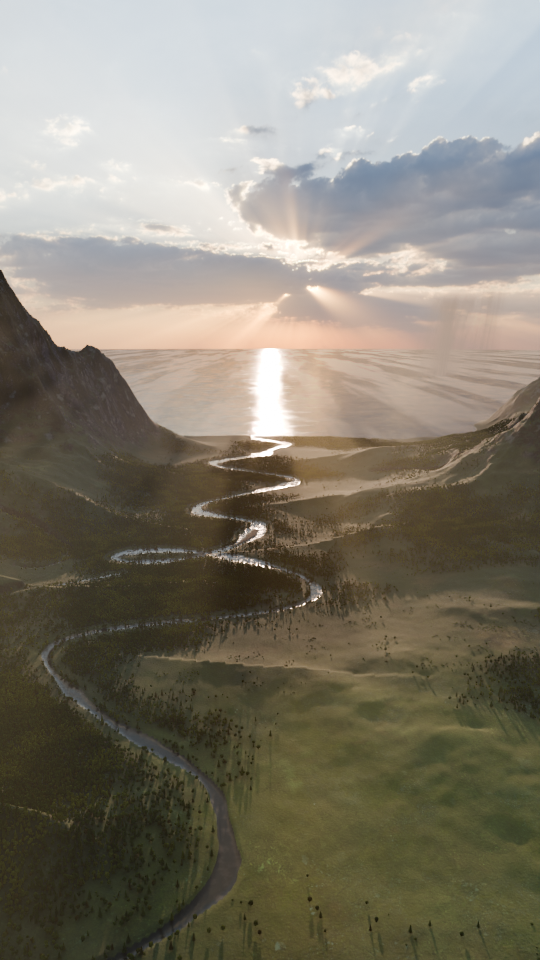
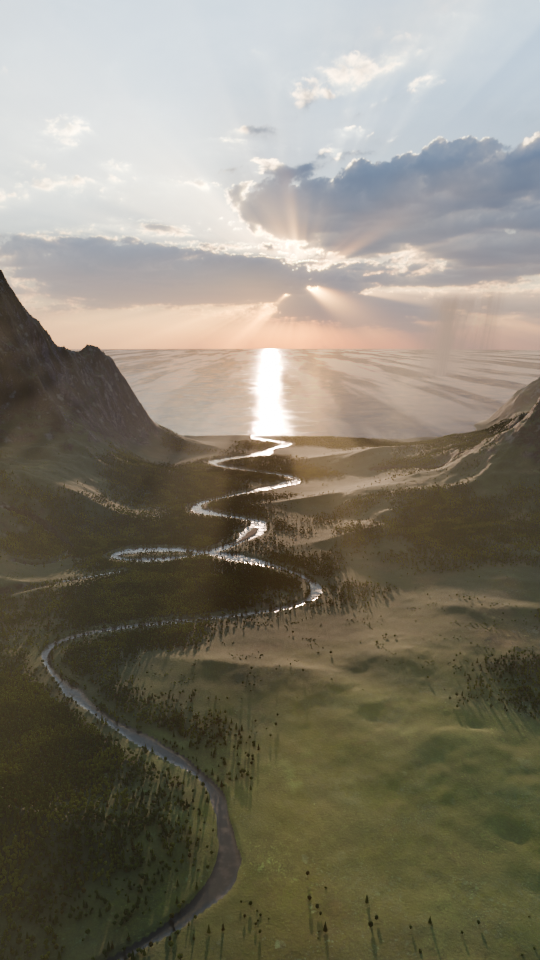
S8: sh12 approval-fix verification (f1760, f1780 at 100%, strip f1740-1786)
Claude-Session: https://claude.ai/code/session_01K89yRZqRN8andkfLSiEp2q

diff --git a/video/review/sh12/NOTES.md b/video/review/sh12/NOTES.md
@@ -50,6 +50,15 @@ curtain under it), TRK_sea, TRK_river, TRK_forest — placed on screen at the se
 * Sea: wind patches + wave groups break the sun column up a little.
 * TRK_sun now sits where the rays converge in the plate (x≈548, y≈598 at the settle).
 
+## Approval fix (commit 7b409ab)
+* Straight seam at y≈790–800 through the exit: it was a real 20–40 m terrain step on the medial line between two
+  meander loops (valley floor/plain width were driven by the nearest-point parameter T, which jumps there).
+  Valley shaping now uses world Y (smooth everywhere); the roughness gate near the banks is a smoothstep instead
+  of a hard cut. Meadow: the scan's pale rock/decal patches are clamped so they read as grass.
+* Verify: `verify/final100_f1760.jpg`, `verify/final100_f1780.jpg` (100 %, 7 spp min 7; single-frame runs
+  131–139 s incl. 16k sky load + sync), `verify/strip50_f1740-1786.jpg` (every frame), settle still
+  `sh12_t066.600.png` re-rendered.
+
 ## Review-5 fixes (verification in `verify/`)
 * Emergence: wisps fade with view distance 40→220 m and share a linear alpha key 63.9→65.1; veil clears
   linearly 63.7→65.1. Lower-half luma f1544–66 is monotonic, max step **9.9/255** (`strip_f1544-1566.jpg`).
